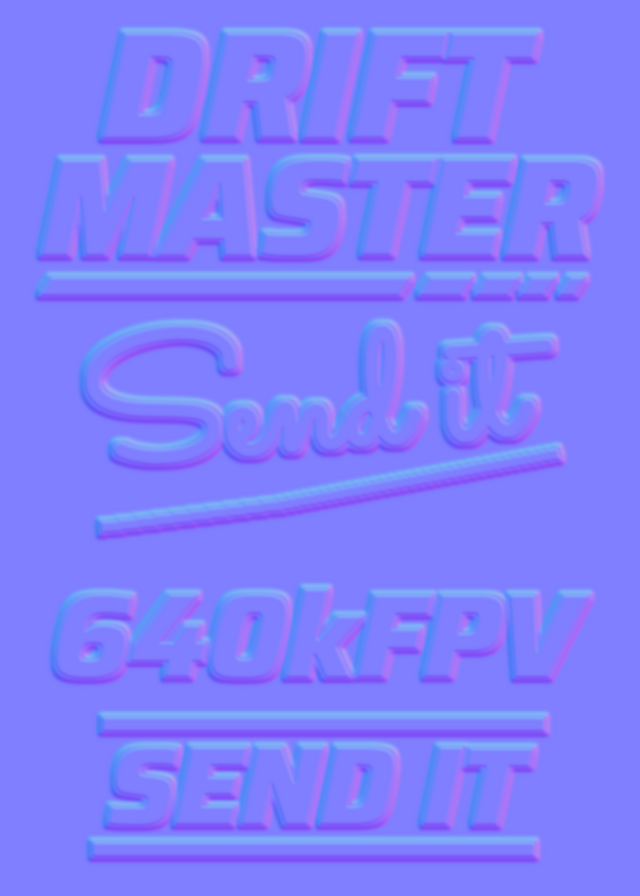
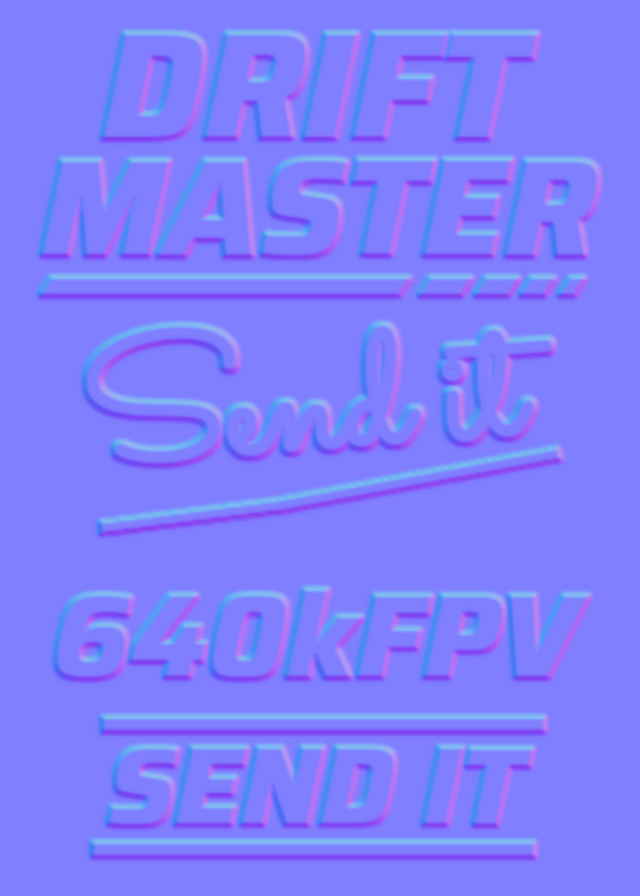
Desktop: milky white, smaller door stickers; changelog and feature list
Claude-Session: https://claude.ai/code/session_01QkfUc2Tbeq4bUawqwEUu3K

diff --git a/desktop/scripts/CarView.cs b/desktop/scripts/CarView.cs
@@ -104,7 +104,7 @@ namespace DriftMaster {
           float f = 1 / det; var sv = o - a; float u = f * sv.Dot(h); if (u < 0 || u > 1) continue; var q = sv.Cross(e1); float v = f * d.Dot(q); if (v < 0 || u + v > 1) continue;
           float tt = f * e2.Dot(q); if (tt > 1e-5f && (best < 0 || tt < best)) best = tt; }
         return best; }
-      StandardMaterial3D Vinyl(string tex) => new StandardMaterial3D { AlbedoTexture = GD.Load<Texture2D>("res://assets/tex/" + tex + ".png"), NormalEnabled = true, NormalTexture = GD.Load<Texture2D>("res://assets/tex/" + tex + "_n.png"), NormalScale = 1.0f,
+      StandardMaterial3D Vinyl(string tex) => new StandardMaterial3D { AlbedoTexture = GD.Load<Texture2D>("res://assets/tex/" + tex + ".png"), NormalEnabled = true, NormalTexture = GD.Load<Texture2D>("res://assets/tex/" + tex + "_n.png"), NormalScale = 0.6f, AlbedoColor = new Color(0.98f, 0.96f, 0.9f), EmissionEnabled = true, Emission = new Color(0.98f, 0.96f, 0.9f), EmissionOperator = BaseMaterial3D.EmissionOperatorEnum.Multiply, EmissionTexture = GD.Load<Texture2D>("res://assets/tex/" + tex + ".png"), EmissionEnergyMultiplier = 0.6f, /* milky white: a soft warm white that does not go grey in the shade */
         Transparency = BaseMaterial3D.TransparencyEnum.Alpha, CullMode = BaseMaterial3D.CullModeEnum.Disabled, Roughness = 0.42f, MetallicSpecular = 0.4f, TextureFilter = BaseMaterial3D.TextureFilterEnum.LinearWithMipmapsAnisotropic };
       // a patch c +- along*hl, +- up*hh dropped onto a mesh along -n, held a hair off it; hold: how far it may leave the height at its middle
       void Patch(SurfaceTool st, (Vector3[] v, int[] i) g, Vector3 c, Vector3 along, Vector3 up, Vector3 n, float hl, float hh, int NU, int NV, bool flip, float hold, float lift) {
@@ -125,7 +125,7 @@ namespace DriftMaster {
           float lean = syy > 1e-9f ? sxy / syy : 0, sweep = szz > 1e-9f ? sxz / szz : 0;           // how the door's surface runs up and along
           var up = new Vector3(lean, 1, 0).Normalized(); var along = new Vector3(sweep, 0, 1).Normalized(); var n = along.Cross(up).Normalized(); if (n.X * sg < 0) n = -n;
           int bi = Body % Bodies.Length; var c = m + new Vector3(0, StickUp - (bi == 2 ? 0.006f : bi == 3 ? 0.008f : 0), StickFwd - (bi == 3 ? 0.034f : 0)); /* the pickup's mirror hangs lower; the tuner's sits on the door itself */
-          Patch(st, paintG, c, along, up, n, 0.0164f, 0.023f, 6, 9, sg > 0, 0.009f, 0.0012f);   // seen from outside, the nose is to the left on the car's left side
+          Patch(st, paintG, c, along, up, n, 0.0135f, 0.019f, 6, 9, sg > 0, 0.009f, 0.0012f);   // seen from outside, the nose is to the left on the car's left side
         }
         st.GenerateTangents();
         _shell.AddChild(new MeshInstance3D { Mesh = st.Commit(), MaterialOverride = Vinyl("side_stickers"), Name = "DoorStickers", CastShadow = GeometryInstance3D.ShadowCastingSetting.Off });

diff --git a/desktop/tools/make_stickers.py b/desktop/tools/make_stickers.py
@@ -31,7 +31,7 @@ centred('640kFPV', saira, 540, 130, 590)
 # 4  SEND IT again, in block capitals between two rules
 x, w, h = centred('SEND IT', saira, 470, 110, 748); d.rectangle((x - 4, 748 - 30, x + w + 10, 748 - 18), fill=255); d.rectangle((x - 14, 748 + h + 18, x + w, 748 + h + 30), fill=255)
 # the black contour: the shapes grown by a few pixels, under the white
-edge = im.filter(ImageFilter.MaxFilter(9)).filter(ImageFilter.GaussianBlur(1.2)); res = Image.new('RGBA', (W, H), (0, 0, 0, 0))
+edge = im.filter(ImageFilter.MaxFilter(5)).filter(ImageFilter.GaussianBlur(1.2)); res = Image.new('RGBA', (W, H), (0, 0, 0, 0))
 res.putalpha(edge); res.paste((255, 255, 255, 255), (0, 0), im.filter(ImageFilter.GaussianBlur(0.6)))
 a = Image.composite(Image.new('L', (W, H), 255), edge, im.point(lambda v: 255 if v > 127 else 0)); res.putalpha(a)
 res.save(os.path.join(out, 'side_stickers.png'), optimize=True)
@@ -48,7 +48,7 @@ relief(res, 'side_stickers_n.png')
 # the windscreen banner: DRIFT MASTER across the sun strip (the strip itself is tint in the glass, see glass.gdshader)
 BW, BH = 1024, 128; bm = Image.new('L', (BW, BH), 0); bd = ImageDraw.Draw(bm); f, bb = fit('DRIFT MASTER', saira, 940, 110, bd)
 bd.text(((BW - (bb[2] - bb[0])) // 2 - bb[0], (BH - (bb[3] - bb[1])) // 2 - bb[1]), 'DRIFT MASTER', font=f, fill=255)
-edge = bm.filter(ImageFilter.MaxFilter(7)).filter(ImageFilter.GaussianBlur(1.0)); ban = Image.new('RGBA', (BW, BH), (0, 0, 0, 0))
+edge = bm.filter(ImageFilter.MaxFilter(5)).filter(ImageFilter.GaussianBlur(1.0)); ban = Image.new('RGBA', (BW, BH), (0, 0, 0, 0))
 ban.paste((255, 255, 255, 255), (0, 0), bm.filter(ImageFilter.GaussianBlur(0.6))); ban.putalpha(Image.composite(Image.new('L', (BW, BH), 255), edge, bm.point(lambda v: 255 if v > 127 else 0)))
 ban.save(os.path.join(out, 'banner.png'), optimize=True); relief(ban, 'banner_n.png')
 # the tyre sidewall lettering: DRIFTMASTER in white on a blue band with a yellow flash at its head, a strip that is bent

diff --git a/desktop/CHANGELOG.md b/desktop/CHANGELOG.md
@@ -1,0 +1,43 @@
+# Drift Master (desktop): changelog and features
+
+## Changelog (this build)
+
+- Paint: one livery template. Body colour (12), bonnet in the body colour or in carbon weave, rim colour (12). The six earlier liveries and the second colour are gone.
+- Shell material: made to look like a real RC drift shell, clear polycarbonate sprayed on the inside. Glossy outside, flat paint inside. Colours retuned.
+- New bodies: TUNER (1990s two-door coupe, no badges) and VAN (lamps and grille over clean paint). Five bodies in all.
+- Coupe: GT wing.
+- Windscreen: sun strip across the top, with the DRIFT MASTER banner on it.
+- Door stickers: a small stack under the driver's mirror, milky white with a thin dark contour, satin with raised edges. DRIFT MASTER, Send it, 640kFPV, SEND IT.
+- Tyres: sidewall lettering now reads DRIFTMASTER.
+- Keys: O now changes the rims, L the bonnet.
+
+## Features
+
+**Driving**
+- 1:10 RC drift physics at 720 steps a second: tyre model, gyro, ESC, spool or gear diff, Ackermann, caster, camber, springs, shock oil and roll bars, with bump stops.
+- Each body has its own weight and centre of gravity, so taller, heavier shells roll more.
+- Bump map on both tracks (tile joints, humps, lifted corners, kerbs); the shell shivers over them.
+- Foam barriers and hard boards that bounce differently.
+- Keyboard and gamepad. Optional driving assist.
+
+**Tracks**
+- One hall, black P-tile floor with wear, two layouts: HILLSIDE (with a raised section and bridge) and INFIELD (oval with a twisty infield, turf and kerbs).
+- Lap timer with last and best lap, speed and drift angle.
+
+**Car**
+- Five bodies on one chassis: SEDAN, COUPE, PICKUP, TUNER, VAN.
+- 12 body colours, carbon bonnet option, 12 rim colours.
+- Shell on or off, tinted or clear windows, neon under the car in six colours.
+- Setup page: motor, tyres, gyro gain, springs, shock oil, roll bars, Ackermann, caster, diff, ESC timing, driving assist, front and rear camber.
+
+**Cameras**
+- Pilot's stand, ceiling, on-board (analog FPV look, 4:3) and a roof stick camera.
+
+**Sound**
+- Tyre, shell and motor sound heard from the pilot's stand, with tile-joint ticks and barrier hits; motor whine can be switched off.
+- Music with its own volume.
+
+**Other**
+- Pause menu (CAR, SETUP, GAME, KEYS); settings kept between runs.
+- Shadows, frame-rate display, resolution scale and full screen switches.
+- Transparent splash screen and its own icon.
